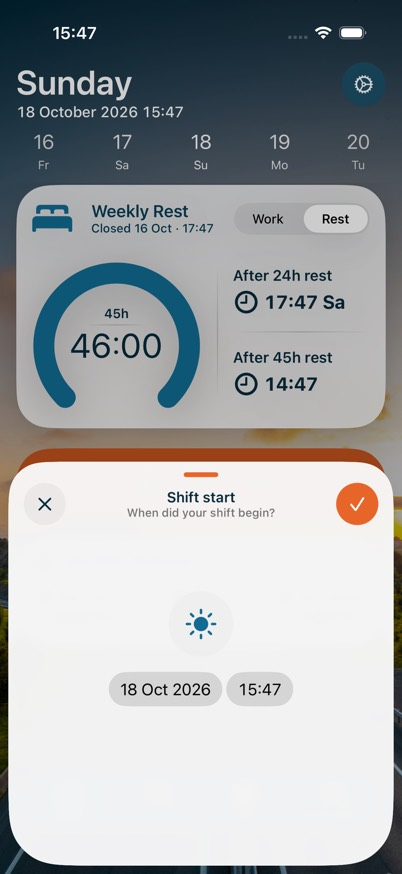
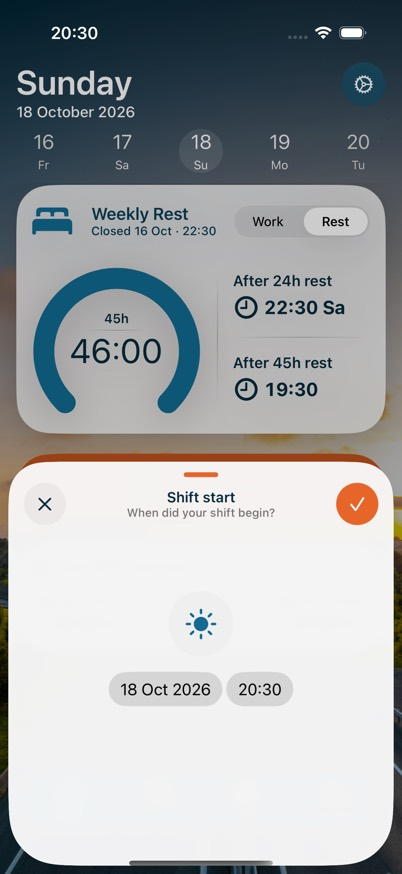
feat: date-only header, today circle and weekly card after 11 h of rest
Review round 2: the header shows the date without time; today in the week
strip gets the Figma circle, moves at local midnight and is announced to
VoiceOver as "Today". Review round 3: a daily rest is shown with the weekly
card (45h, After 24h/45h) from 11 h of elapsed rest, derived from timestamps;
the stored kind and the 9 h Start of day milestone are unchanged. Unit tests
cover midnight and the 11 h boundary; a UI test watches the live switch.
Docs refreshed with current Figma references.

diff --git a/TachoBookTests/HomeFlowTests.swift b/TachoBookTests/HomeFlowTests.swift
@@ -132,6 +132,83 @@ struct HomeFlowTests {
         #expect(HomeTimeline.clockDuration(seconds: 98_340) == "27:19")
     }
 
+    // MARK: - Header (review round 2)
+
+    @Test func headerShowsTheDateWithoutTime() {
+        var british = calendar
+        british.locale = Locale(identifier: "en_GB")
+        #expect(HomeTimeline.headerDate(date(18, 14, 52), calendar: british) == "18 October 2026")
+    }
+
+    @Test func todayInTheWeekStripMovesAtLocalMidnight() throws {
+        let beforeMidnight = date(18, 23, 59).addingTimeInterval(59)
+        let afterMidnight = date(19, 0, 0)
+        let before = HomeTimeline.weekStrip(around: beforeMidnight, calendar: calendar)
+        let after = HomeTimeline.weekStrip(around: afterMidnight, calendar: calendar)
+        #expect(before.map(\.offset) == [-2, -1, 0, 1, 2])
+        #expect(before.filter(\.isToday).map(\.date) == [date(18, 0, 0)])
+        #expect(after.filter(\.isToday).map(\.date) == [date(19, 0, 0)])
+        #expect(before.first?.date == date(16, 0, 0))
+        #expect(after.last?.date == date(21, 0, 0))
+    }
+
+    // MARK: - Daily rest shown as weekly from 11 h (review round 3)
+
+    @Test func dailyRestIsShownAsWeeklyFromElevenHours() {
+        let restStart = date(19, 22, 25)
+        let justBefore = restStart.addingTimeInterval(11 * 3600 - 1)
+        let atEleven = restStart.addingTimeInterval(11 * 3600)
+        #expect(HomeTimeline.displayedRestKind(stored: .daily, restStart: restStart, now: justBefore) == .daily)
+        #expect(HomeTimeline.displayedRestKind(stored: .daily, restStart: restStart, now: atEleven) == .weekly)
+        #expect(HomeTimeline.displayedRestKind(stored: .weekly, restStart: restStart, now: restStart) == .weekly)
+    }
+
+    @Test func closedAtTwentyTwoTwentyFiveSwitchesCardsAtNineTwentyFive() throws {
+        let model = seeded()
+        model.startShift(at: date(19, 5, 40), now: date(19, 5, 40))
+        model.closeShift(at: date(19, 22, 25), now: date(19, 22, 30))
+        let restStart = try #require(model.currentRestStart)
+
+        let at0924 = date(20, 9, 24)
+        let daily = HomeTimeline.displayedRestKind(stored: model.restKind, restStart: restStart, now: at0924)
+        #expect(daily == .daily)
+        let dailyMilestones = HomeTimeline.restMilestones(restStart: restStart, kind: daily)
+        #expect(label(dailyMilestones.first, now: at0924) == "07:25")
+        #expect(label(dailyMilestones.second, now: at0924) == "09:25")
+
+        let at0925 = date(20, 9, 25)
+        let weekly = HomeTimeline.displayedRestKind(stored: model.restKind, restStart: restStart, now: at0925)
+        #expect(weekly == .weekly)
+        #expect(weekly.requiredHours == 45)
+        let weeklyMilestones = HomeTimeline.restMilestones(restStart: restStart, kind: weekly)
+        #expect(label(weeklyMilestones.first, now: at0925) == "22:25")
+        #expect(label(weeklyMilestones.second, now: at0925) == "19:25 We")
+
+        // The stored kind stays daily: Start of day is available from 9 h and after the switch.
+        #expect(model.restKind == .daily)
+        #expect(HomeTimeline.availabilityCountdown(restStart: restStart, kind: model.restKind, now: date(20, 7, 24)) != nil)
+        for now in [date(20, 7, 25), at0925, date(21, 12, 0)] {
+            #expect(HomeTimeline.availabilityCountdown(restStart: restStart, kind: model.restKind, now: now) == nil)
+            #expect(model.canStartShift(at: now, now: now))
+        }
+    }
+
+    @Test func displayedKindIsDerivedAfterRelaunch() throws {
+        let directory = FileManager.default.temporaryDirectory.appending(path: "home-\(UUID())")
+        defer { try? FileManager.default.removeItem(at: directory) }
+        let url = directory.appending(path: "shifts.store")
+        autoreleasepool {
+            let model = DayLogModel(storageURL: url)
+            model.setDayStart(date(19, 5, 40))
+            model.closeShift(at: date(19, 22, 25), now: date(19, 22, 30))
+        }
+        let reloaded = DayLogModel(storageURL: url)
+        let restStart = try #require(reloaded.currentRestStart)
+        #expect(reloaded.restKind == .daily)
+        #expect(HomeTimeline.displayedRestKind(stored: reloaded.restKind, restStart: restStart, now: date(20, 9, 24)) == .daily)
+        #expect(HomeTimeline.displayedRestKind(stored: reloaded.restKind, restStart: restStart, now: date(20, 9, 25)) == .weekly)
+    }
+
     // MARK: - Editing the summary (R-E01)
 
     @Test func editingDayStartedMovesMarkersAndKeepsThePreviousRestLinked() throws {

diff --git a/TachoBook/DashboardHeaderView.swift b/TachoBook/DashboardHeaderView.swift
@@ -5,28 +5,12 @@
 
 import SwiftUI
 
-/// Figma "Main Top Header": the current weekday, date and time with the week strip.
+/// Figma "Main Top Header": the current weekday and date with the week strip.
 public struct DashboardHeaderView: View {
     public var date: Date
 
     public init(date: Date = Date()) {
         self.date = date
-    }
-
-    private var subtitle: String {
-        let day = date.formatted(.dateTime.day().month(.wide).year())
-        return "\(day) \(HomeTimeline.clockLabel(date, relativeTo: date))"
-    }
-
-    private var weekDays: [(day: String, weekday: String, opacity: Double)] {
-        let calendar = Calendar.current
-        return (-2...2).compactMap { offset in
-            guard let target = calendar.date(byAdding: .day, value: offset, to: date) else { return nil }
-            // Figma fades neighbours to 50 % and 25 % opacity; solid lighter grays keep the
-            // hierarchy with readable contrast (the audit rejects translucent text).
-            let opacity = offset == 0 ? 1.0 : (abs(offset) == 1 ? 0.93 : 0.86)
-            return (target.formatted(.dateTime.day()), target.formatted(.dateTime.weekday(.short)), opacity)
-        }
     }
 
     public var body: some View {
@@ -36,10 +20,9 @@ public struct DashboardHeaderView: View {
                     Text(date.formatted(.dateTime.weekday(.wide)))
                         .font(.largeTitle.weight(.semibold))
                         .accessibilityAddTraits(.isHeader)
-                    Text(subtitle)
+                    Text(HomeTimeline.headerDate(date))
                         .font(.subheadline.weight(.medium))
-                        .monospacedDigit()
-                        .accessibilityIdentifier("headerDateTime")
+                        .accessibilityIdentifier("headerDate")
                 }
                 .foregroundStyle(.white)
                 .fixedSize(horizontal: false, vertical: true)
@@ -57,33 +40,49 @@ public struct DashboardHeaderView: View {
             .padding(.horizontal, 16)
 
             HStack(spacing: 8) {
-                ForEach(Array(weekDays.enumerated()), id: \.offset) { _, item in
-                    WeekDayItem(day: item.day, weekday: item.weekday, opacity: item.opacity)
+                ForEach(HomeTimeline.weekStrip(around: date), id: \.offset) { day in
+                    WeekDayItem(day: day)
                 }
             }
             .padding(.horizontal, 8)
-            .accessibilityHidden(true)
         }
         .padding(.bottom, 10)
     }
 }
 
 struct WeekDayItem: View {
-    var day: String
-    var weekday: String
-    /// White level of the text: 1 for today, lower for the neighbouring days.
-    var opacity: Double
+    var day: HomeTimeline.WeekStripDay
+
+    /// Figma fades neighbours to 50 % and 25 % opacity; solid lighter grays keep the
+    /// hierarchy with readable contrast (the audit rejects translucent text).
+    private var whiteLevel: Double {
+        day.isToday ? 1 : (abs(day.offset) == 1 ? 0.93 : 0.86)
+    }
 
     var body: some View {
         VStack(spacing: 4) {
-            Text(day)
+            Text(day.date.formatted(.dateTime.day()))
                 .font(.title3)
-            Text(weekday)
+            Text(day.date.formatted(.dateTime.weekday(.short)))
                 .font(.caption)
         }
-        .foregroundStyle(Color(white: opacity))
+        .foregroundStyle(Color(white: whiteLevel))
         .lineLimit(1)
         .minimumScaleFactor(0.7)
         .frame(maxWidth: .infinity, minHeight: 44)
+        .background {
+            // Figma "Week Day" BG: 44 pt circle, #E4E4E4 at 30 % fill inside a 44 % layer.
+            if day.isToday {
+                Circle()
+                    .fill(Color(red: 228/255, green: 228/255, blue: 228/255).opacity(0.3 * 0.44))
+                    .frame(width: 44, height: 44)
+            }
+        }
+        // Only today is announced; the neighbouring days carry no action yet.
+        .accessibilityElement(children: .ignore)
+        .accessibilityLabel(day.isToday ? "Today, \(day.date.formatted(date: .complete, time: .omitted))" : "")
+        .accessibilityAddTraits(day.isToday ? .isSelected : [])
+        .accessibilityHidden(!day.isToday)
+        .accessibilityIdentifier(day.isToday ? "weekStripToday" : "weekStripDay")
     }
 }

diff --git a/TachoBook/HomeTimeline.swift b/TachoBook/HomeTimeline.swift
@@ -52,6 +52,16 @@ public enum HomeTimeline {
         TimeInterval(dutyRemainingSeconds(shiftStart: shiftStart, at: instant)) <= dutyWarningThreshold
     }
 
+    /// A daily rest that continues to 11 h is shown as a weekly rest (R-W01: a daily rest can
+    /// continue into a weekly one; the type stays provisional). Display only: the stored kind and
+    /// the Start of day milestone are unchanged.
+    public static let weeklyDisplayAfter: TimeInterval = 11 * 3600
+
+    public static func displayedRestKind(stored: RestKind, restStart: Date, now: Date) -> RestKind {
+        guard stored == .daily else { return stored }
+        return now.timeIntervalSince(restStart) >= weeklyDisplayAfter ? .weekly : .daily
+    }
+
     /// Start of day countdown; nil once the milestone is reached.
     public static func availabilityCountdown(restStart: Date, kind: RestKind, now: Date) -> String? {
         let available = adding(hours: kind.requiredHours, to: restStart)
@@ -85,6 +95,31 @@ public enum HomeTimeline {
         formatter.locale = calendar.locale ?? .current
         formatter.dateFormat = "d MMM"
         return formatter.string(from: date)
+    }
+
+    /// Header subtitle: the date only, "18 October 2026".
+    public static func headerDate(_ now: Date, calendar: Calendar = .current) -> String {
+        let formatter = DateFormatter()
+        formatter.calendar = calendar
+        formatter.timeZone = calendar.timeZone
+        formatter.locale = calendar.locale ?? .current
+        formatter.setLocalizedDateFormatFromTemplate("dMMMMyyyy")
+        return formatter.string(from: now)
+    }
+
+    public struct WeekStripDay: Equatable {
+        public var date: Date
+        /// Days from today: -2 … 2.
+        public var offset: Int
+        public var isToday: Bool { offset == 0 }
+    }
+
+    /// Five days centred on today in the device calendar; today moves at local midnight.
+    public static func weekStrip(around now: Date, calendar: Calendar = .current) -> [WeekStripDay] {
+        let today = calendar.startOfDay(for: now)
+        return (-2...2).compactMap { offset in
+            calendar.date(byAdding: .day, value: offset, to: today).map { WeekStripDay(date: $0, offset: offset) }
+        }
     }
 
     /// "09h52m"; "?" while the driver has not entered driving time.

diff --git a/TachoBookUITests/HomeFlowUITests.swift b/TachoBookUITests/HomeFlowUITests.swift
@@ -92,6 +92,41 @@ final class HomeFlowUITests: XCTestCase {
         app.buttons["closeSheetButton"].tap()
     }
 
+    /// Review round 3: a daily rest switches to the weekly card at 11 h, live, and Start of day stays enabled.
+    /// Review round 2: the header shows the date only and today is exposed to VoiceOver.
+    @MainActor
+    func testDailyRestTurnsWeeklyAtElevenHoursAndHeaderShowsToday() {
+        let app = XCUIApplication()
+        app.launchArguments = ["-homeFlowUITest", "-resetHomeFlowTest", "-seedDailyRestNearEleven",
+                               "-UIPreferredContentSizeCategoryName", "UICTContentSizeCategoryL"]
+        app.launch()
+        XCTAssertTrue(app.staticTexts["Rest Time"].waitForExistence(timeout: 5))
+        XCTAssertTrue(element(app, startingWith: "After 9h rest").exists)
+        XCTAssertTrue(app.buttons["startOfDayButton"].isEnabled)
+
+        let header = app.staticTexts["headerDate"]
+        XCTAssertTrue(header.exists)
+        XCTAssertNil(header.label.range(of: #"\d{1,2}:\d{2}"#, options: .regularExpression), "header shows a time: \(header.label)")
+        let today = app.descendants(matching: .any)["weekStripToday"]
+        XCTAssertTrue(today.exists)
+        XCTAssertTrue(today.label.hasPrefix("Today"), today.label)
+        XCTAssertTrue(today.isSelected)
+        attach("Daily card before 11 h")
+
+        XCTAssertTrue(app.staticTexts["Weekly Rest"].waitForExistence(timeout: 40))
+        XCTAssertTrue(element(app, startingWith: "After 24h rest").exists)
+        XCTAssertTrue(element(app, startingWith: "After 45h rest").exists)
+        XCTAssertTrue(app.staticTexts["Last Shift Summary"].exists)
+        XCTAssertTrue(app.buttons["startOfDayButton"].isEnabled)
+        attach("Weekly card from 11 h")
+
+        app.terminate()
+        app.launchArguments = ["-homeFlowUITest", "-UIPreferredContentSizeCategoryName", "UICTContentSizeCategoryL"]
+        app.launch()
+        XCTAssertTrue(app.staticTexts["Weekly Rest"].waitForExistence(timeout: 5), "same card after relaunch")
+        XCTAssertTrue(app.buttons["startOfDayButton"].isEnabled)
+    }
+
     /// Switching Work ↔ Rest must not move the widget, the button row or the summary card.
     @MainActor
     func testToggleDoesNotShiftLayout() {

diff --git a/TachoBook/DashboardView.swift b/TachoBook/DashboardView.swift
@@ -162,7 +162,8 @@ public struct DashboardView: View {
     @ViewBuilder
     private func restWidget(now: Date) -> some View {
         if let restStart = model.currentRestStart {
-            let kind = model.restKind
+            // The card follows the displayed kind (a daily rest past 11 h shows as weekly).
+            let kind = HomeTimeline.displayedRestKind(stored: model.restKind, restStart: restStart, now: now)
             let elapsed = HomeTimeline.elapsedSeconds(from: restStart, to: now)
             let milestones = HomeTimeline.restMilestones(restStart: restStart, kind: kind)
             HomeMainWidget(
@@ -241,7 +242,7 @@ public struct DashboardView: View {
                             identifier: "summaryDayClosed") { sheet = .editDayEnd },
         ]
         return HomeSecondaryCard(symbol: "info.circle.fill",
-                                 title: model.restKind == .weekly ? "Last Shift Summary" : "Today’s summary",
+                                 title: displayedRestKind(now: now) == .weekly ? "Last Shift Summary" : "Today’s summary",
                                  count: items.count) { index in
             let item = items[index]
             Button(action: item.action) {
@@ -253,6 +254,12 @@ public struct DashboardView: View {
             .accessibilityIdentifier(item.identifier)
             .accessibilityHint("Edit")
         }
+    }
+
+    /// The rest kind Home shows; Start of day keeps using the stored kind's milestone.
+    private func displayedRestKind(now: Date) -> RestKind {
+        guard let restStart = model.currentRestStart else { return model.restKind }
+        return HomeTimeline.displayedRestKind(stored: model.restKind, restStart: restStart, now: now)
     }
 
     // MARK: - Sheets

diff --git a/TachoBook/DayLogModel.swift b/TachoBook/DayLogModel.swift
@@ -90,6 +90,11 @@ public final class DayLogModel {
                                             restStart: restStart, drivingMinutes: 128)
             } else if args.contains("-seedNearDutyLimit"), model.isEmpty {
                 model.setDayStart(Date().addingTimeInterval(-(14 * 3600 + 45 * 60)))
+            } else if args.contains("-seedDailyRestNearEleven"), model.isEmpty {
+                // A daily rest 20 s short of 11 h, to watch it switch to the weekly card.
+                let now = Date()
+                model.setDayStart(now.addingTimeInterval(-24 * 3600))
+                model.closeShift(at: now.addingTimeInterval(-(11 * 3600 - 20)))
             }
             return model
         }

diff --git a/docs/home-flow/README.md b/docs/home-flow/README.md
@@ -65,6 +65,30 @@ Both icons now sit in a fixed 40 × 40 slot; the bed keeps its aspect ratio, cen
 
 ![Work and Rest at 402 and 390 pt](toggle-work-rest.jpg)
 
+## Header: date only, today highlighted (review round 2, 18.10.2026)
+
+- Subtitle shows the date only ("18 October 2026"); the time was removed (Serhii's decision).
+- Today in the week strip has the Figma circle (`Week Day` BG: 44 pt, #E4E4E4 at 30 % inside a 44 % layer).
+  Today is the device-local calendar date and moves at midnight without relaunch
+  (`HomeFlowTests.todayInTheWeekStripMovesAtLocalMidnight`, injected clock 23:59:59 → 00:00:00).
+- VoiceOver reads "Today, <full date>" with the selected trait; the neighbouring days stay hidden.
+  The strict accessibility audit still passes in all five Home states.
+
+![Header next to Figma frame 01 at 402 and 390 pt](header-vs-figma.jpg)
+
+## Daily rest shown as weekly from 11 h (review round 3, 18.10.2026)
+
+Option B (Serhii's decision): a rest started by closing a shift is stored as daily and shown with the
+daily card until 11 h of elapsed rest (39 600 s, exact timestamps). From 11 h Home shows the weekly card
+(Weekly Rest, 45h gauge, After 24h / After 45h = rest start + 24 h / + 45 h) and "Last Shift Summary".
+Derived from timestamps on every tick, so it switches live and after relaunch; the stored kind is not
+rewritten. Start of day keeps the daily 9 h milestone, so it stays enabled after the switch. Seeded weekly
+rests are weekly from the start. Tests: `dailyRestIsShownAsWeeklyFromElevenHours` (10:59:59 vs 11:00:00),
+`closedAtTwentyTwoTwentyFiveSwitchesCardsAtNineTwentyFive`, `displayedKindIsDerivedAfterRelaunch`, and the UI
+test `testDailyRestTurnsWeeklyAtElevenHoursAndHeaderShowsToday` (live switch, button state, relaunch).
+
+![Daily card just before and weekly card just after 11 h at 402 and 390 pt](rest-11h.jpg)
+
 ## Known visual differences
 
 - Native sheets dim Home behind them; Figma shows no dimming.
